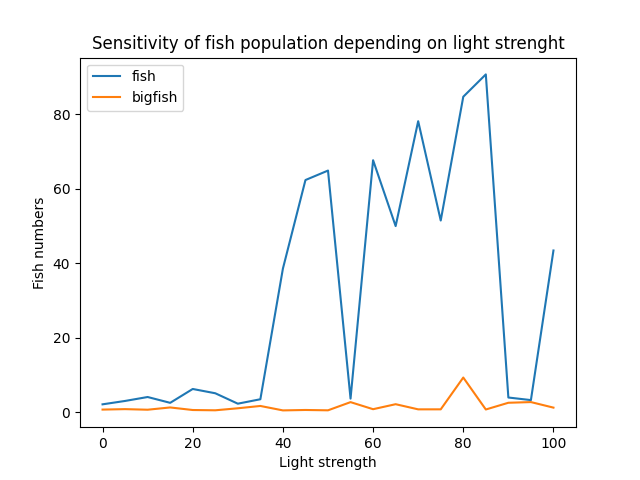
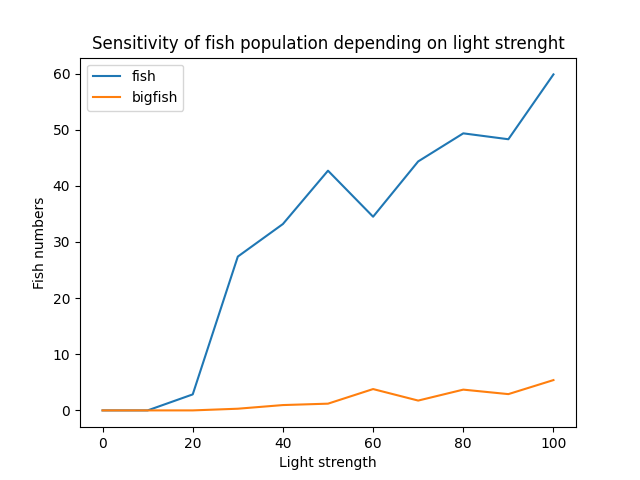
improved the visualisation of the end goal

diff --git a/fish.py b/fish.py
@@ -19,15 +19,16 @@ from mesa.visualization.modules import CanvasGrid
 from mesa.visualization.ModularVisualization import ModularServer
 from mesa.visualization.modules import ChartModule
 from mesa.datacollection import DataCollector
+import statistics
 
 
 class BigFish(Agent):
     "Creating BigFish agents"
     def __init__(self, unique_id, model):
         super().__init__(unique_id, model)
-        self.big_energy = 400
-        self.big_age = 0
         self.type = 'bigfish'
+        self.big_energy = 100
+        self.big_age = self.random.randrange(0,20)
         self.big_mating_counter = 0
 
 
@@ -39,20 +40,20 @@ class BigFish(Agent):
         
         "make the big fish move to nearby fish"
 
-        for i in range(len(possible_steps)):
-            the_agents = self.model.grid.get_cell_list_contents([possible_steps[i]])
-            if len(the_agents)> 0:
-                for option in range(len(the_agents)):
-                    if isinstance(the_agents[option], Fish):
-                        new_position = possible_steps[i]
-                        pass
-                    else:
-                        new_position = self.random.choice(possible_steps)
+        # for i in range(len(possible_steps)):
+        #     the_agents = self.model.grid.get_cell_list_contents([possible_steps[i]])
+        #     if len(the_agents)> 0:
+        #         for option in range(len(the_agents)):
+        #             if isinstance(the_agents[option], Fish):
+        #                 new_position = possible_steps[i]
+        #                 pass
+        #             else:
+        #                 new_position = self.random.choice(possible_steps)
 
-            else:
-                new_position = self.random.choice(possible_steps)
+        #     else:
+        new_position = self.random.choice(possible_steps)
         self.model.grid.move_agent(self, new_position)
-        self.big_energy -= 10
+        self.big_energy -= 3
         self.big_look()
 
 
@@ -66,7 +67,7 @@ class BigFish(Agent):
             for option in range(len(agents)):
                 if isinstance(agents[option], Fish):
                     agent_fish = agents[option]
-                    if self.big_energy < 100:
+                    if self.big_energy < 200:
                         self.big_eat(agent_fish)
         
                 "make the big fish mate with each other at the same location"
@@ -79,13 +80,22 @@ class BigFish(Agent):
         
         self.big_mating_counter +=1
         self.big_age +=1
+    
+    
+    def step(self):
+        "the big fish moves when it still has enegery, otherwise dies"
+        if self.big_fish_energy() and self.big_age < 200:
+            self.big_move()
+
+        else:
+            self.big_move_up()
 
 
     def big_eat(self, fish): 
         "the big fish eats other smaller fish"
         self.model.grid.remove_agent(fish)
         self.model.schedule.remove(fish)
-        self.big_energy += 200
+        self.big_energy += 100
     
 
     def big_move_up(self):        
@@ -104,15 +114,6 @@ class BigFish(Agent):
         "the big fish dies / dissapears"
         self.model.grid.remove_agent(self)
         self.model.schedule.remove(self)
-          
-
-    def step(self):
-        "the big fish moves when it still has enegery, otherwise dies"
-        if self.big_fish_energy() and self.big_age < 100:
-            self.big_move()
-
-        else:
-            self.big_move_up()
 
 
     def big_fish_energy(self):
@@ -144,10 +145,10 @@ class Fish(Agent):
     "Creating Fish agents"
     def __init__(self, unique_id, model):
         super().__init__(unique_id, model)
+        self.type = 'fish'
         self.energy = 40
         self.mating_counter = 0
-        self.age = 0
-        self.type = 'fish'
+        self.age = self.random.randrange(0,20)
     
 
     def move(self): 
@@ -170,7 +171,6 @@ class Fish(Agent):
             else:
                 new_position = self.random.choice(possible_steps)
         self.model.grid.move_agent(self, new_position)
-        self.energy -= 2
         self.look()
 
 
@@ -193,16 +193,19 @@ class Fish(Agent):
         
         if self.current_fish_count > 1:
             if self.fish_mating_energy() and self.age > 10:
-                    self.mating()
+                self.mating()
         
         self.mating_counter +=1
-        self.age +=1
     
 
     def step(self):
         "the fish moves when it still has enegery, otherwise dies"
-        if self.fish_energy() and self.age < 50:
-            self.move()
+        if self.fish_energy() and self.age < 45:
+            speed = self.random.randrange(1,3)
+            for _ in range(speed):
+                self.move()
+            self.age +=1
+            self.energy -= 1
 
         else:
             self.move_up()
@@ -216,7 +219,7 @@ class Fish(Agent):
 
     def fish_mating_energy(self):
         "tells whether the fish has enough mating energy"
-        if self.energy > 30:
+        if self.energy > 40:
             return True
 
 
@@ -224,7 +227,7 @@ class Fish(Agent):
         "the fish eats algea"
         self.model.grid.remove_agent(algea)
         self.model.schedule.remove(algea)
-        self.energy += 30
+        self.energy += 10
     
 
     def move_up(self):        
@@ -250,6 +253,7 @@ class Fish(Agent):
         if self.mating_counter > 20:
             current = self.model.grid.get_cell_list_contents([self.pos])
             if len(current) < 3:
+                # print('okee')
                 fish = Fish(self.model.next_id(), self.model)
                 self.model.schedule.add(fish)
                 self.model.grid.place_agent(fish, self.pos)
@@ -278,8 +282,7 @@ class Algea(Agent):
     def step(self):
         "with chance the algea can grow in time"
         random_growth = self.random.randint(0, 100)
-
-        if random_growth < 10 * self.model.light_strength:
+        if random_growth < 25 * self.model.light_strength:
             self.random_grow()
 
 
@@ -289,10 +292,10 @@ class Fishtank(Model):
         super().__init__()
         self.width = width
         self.height = height
-        self.number_algea = width * height * probability_algea
-        self.number_fish = number_fish
-        self.number_big_fish = number_big_fish
         self.light_strength = light_strength / 50
+        self.fish_counter = 0
+        self.big_fish_counter = 0
+        self.algea_counter = 0
         
         self.grid = MultiGrid(width, height, False)
         self.visgrid = np.zeros((height,width))
@@ -305,29 +308,27 @@ class Fishtank(Model):
         
 
         "agents are being created and added to the grid and schedule"
-        for _ in range(self.number_fish):
+        # fish
+        for _ in range(number_fish):
             a = Fish(self.next_id(), self)
             self.schedule.add(a)
-
-            # fish
             x = self.random.randrange(self.width)
             y = self.random.randrange(self.height)
             self.grid.place_agent(a, (x, y))
         
-        for _ in range(int(self.number_algea)):
+        # algea
+        number_algea = width * height * probability_algea
+        for _ in range(int(number_algea)):
             b = Algea(self.next_id(), self)
             self.schedule.add(b)
-
-            # algea
             x = self.random.randrange(self.width)
             y = self.random.randrange(self.height)
             self.grid.place_agent(b, (x, y))
         
-        for _ in range(self.number_big_fish):
+        # big fish
+        for _ in range(number_big_fish):
             c = BigFish(self.next_id(), self)
             self.schedule.add(c)
-
-            # big fish
             x = self.random.randrange(self.width)
             y = self.random.randrange(self.height)
             self.grid.place_agent(c, (x, y))
@@ -340,6 +341,8 @@ class Fishtank(Model):
     
 
     def fishcounting(self):
+        "keeps track of the number of fish, big fish and algea in the tank"
+
         self.fish_counter = 0
         self.big_fish_counter = 0
         self.algea_counter = 0
@@ -357,14 +360,16 @@ class Fishtank(Model):
 
 
     def fish(self):
+        "returns the number of fish in the tank"
         return self.fish_counter
 
 
     def bigfish(self):
+        "returns the number of big fish in the tank"
         return self.big_fish_counter
 
-
     def algea(self):
+        "returns percentages of algea in comparison to the tank"
         return (self.algea_counter/ (self.width * self.height))
                 
 
@@ -423,33 +428,33 @@ def agent_portrayal(agent):
 
 if __name__ == "__main__":
     # visualisation of number of Fish depending on light strength
-    # fish = {}
-    # bigfish = {}
-    # for light in np.arange(0, 105, 5):
-    #     fish_list = []
-    #     bigfish_list = []
+    fish = {}
+    bigfish = {}
+    for light in np.arange(0, 110, 10):
+        fish_list = []
+        bigfish_list = []
 
-    #     tank = Fishtank(20, 20, 0.3, 30, light, 6)
+        for i in range(20):
+            print(i)
+            tank = Fishtank(15, 15, 0.3, 20, light, 6)
+            for _ in range(400):  
+                tank.step()            
+            fish_list.append(tank.fish_counter)
+            bigfish_list.append(tank.big_fish_counter)
 
-    #     for _ in range(400):
-    #         fish_list.append(tank.fish_counter)
-    #         mean_fish = sum(fish_list) / len(fish_list)
-
-    #         bigfish_list.append(tank.big_fish_counter)
-    #         mean_bigfish = sum(bigfish_list) / len(bigfish_list)
-            
-    #         tank.step()
+        mean_fish = statistics.mean(fish_list)
+        mean_bigfish = statistics.mean(bigfish_list)
         
-    #     fish[light] = mean_fish
-    #     bigfish[light] = mean_bigfish
+        fish[light] = mean_fish
+        bigfish[light] = mean_bigfish
     
-    # plt.plot(fish.keys(),fish.values())
-    # plt.plot(bigfish.keys(), bigfish.values())
-    # plt.legend(['fish', 'bigfish'])
-    # plt.title('Sensitivity of fish population depending on light strenght')
-    # plt.xlabel('Light strength')
-    # plt.ylabel('Fish numbers')
-    # plt.savefig('fishies.png')
+    plt.plot(fish.keys(),fish.values())
+    plt.plot(bigfish.keys(), bigfish.values())
+    plt.legend(['fish', 'bigfish'])
+    plt.title('Sensitivity of fish population depending on light strenght')
+    plt.xlabel('Light strength')
+    plt.ylabel('Fish numbers')
+    plt.savefig('fishies.png')
 
 
     # live visualisation of the fishtank with certain lightstrenght
@@ -458,7 +463,7 @@ if __name__ == "__main__":
     light_strength = 50
 
     "create a visualization of the animation and fish / algea countings"
-    grid = CanvasGrid(agent_portrayal, 20, 20, 500, 300)
+    grid = CanvasGrid(agent_portrayal, 15, 15, 500, 300)
 
     chart = ChartModule([{"Label": "fish", "Color": "Red"}, 
                         {"Label": "bigfish", "Color": "Blue"}], 
@@ -470,7 +475,7 @@ if __name__ == "__main__":
     server = ModularServer(Fishtank,
                         [grid,chart2,chart],
                         "Fishtank Ilona Willemse",
-                        {"width":20, "height": 20, "probability_algea": 0.3, "number_fish": 30, "light_strength": light_strength, "number_big_fish": 6})
+                        {"width":15, "height": 15, "probability_algea": 0.3, "number_fish": 20, "light_strength": light_strength, "number_big_fish": 6})
     server.port = 8521 # The default
 
     server.launch()
